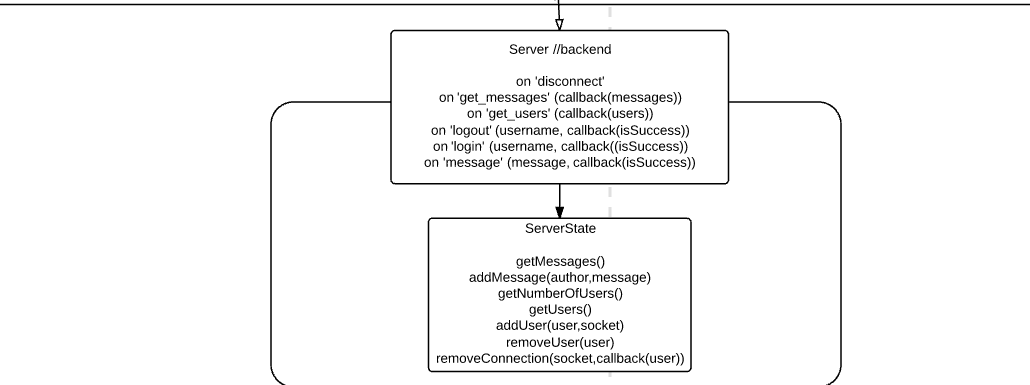
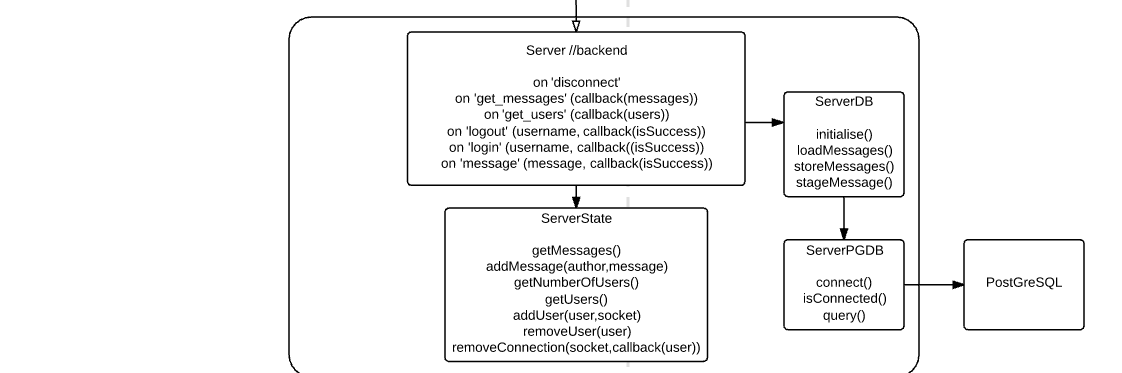
cleaned server.js code, updated chat-server documentation r.e. persistance

diff --git a/serverState.js b/serverState.js
@@ -5,92 +5,87 @@ var messages = [];
 //THIS IS THE SERVER MODEL
 //Note: only model behaviour, e.g. no SOCKET-IO functionality here!
 
-function createMessage(_author,_message)
-{
+function createMessage(_author,_message){
   var _date = new Date();
-  var result =
-  {
+  var result = {
     author: _author,
     message: _message,
     date: _date
   };
-
   return result;
 }
 
-module.exports =
-{
+function getMessages(){
+  console.log('getMessages:');
+  return messages;
+}
 
-  getMessages : function()
-  {
-    console.log('getMessages:');
-    return messages;
-  },
-
-  //loads a message from the database
-  //msg = {author, message, date}
-  loadMessage: function(msg)
-  {
-    if (!msg.author || !msg.message || !msg.date){
-      throw new Error("ServerState: loadMessage: msg incorrect format",msg);
-    }
-    else {
-      messages.push(msg);
-    }
-    return msg;
-  },
-
-  addMessage : function(author,message)
-  {
-    var msg = createMessage(author,message);
-    messages.push(msg);
-    return msg;
-  },
-
-
-  getNumberOfUsers : function()
-  {
-    return users.length;
-  },
-
-  getUsers : function()
-  {
-    return users;
-  },
-
-  //TODO: user can be offline e.g. a historical user
-  addUser : function(user,socket)
-  {
-    //make sure user isn't already here,
-    console.log('ServerState:addUser');
-    var index = users.indexOf(user);
-    var success = index === -1;
-    if (success){
-      users.push(user);
-      sockets.push(socket);
-    }
-    return success;
-  },
-
-  //TODO: make this alter the users status from online to offline
-  removeUser : function(user)
-  {
-    console.log('ServerState:removeUser');
-    var index = users.indexOf(user);
-    if (index > -1){
-      users.splice(index,1);
-      sockets.splice(index,1);
-    }
-    return index !== -1;
-  },
-
-  removeConnection : function(socket,callback)
-  {
-    console.log('ServerState:removeConnection');
-    var index = sockets.indexOf(socket);
-    if (index != -1){
-      var user = users[index];
-      callback(user);
-    }
+//loads a message from the database
+//msg = {author, message, date}
+function loadMessage(msg){
+  if (!msg.author || !msg.message || !msg.date){
+    throw new Error("ServerState: loadMessage: msg incorrect format",msg);
   }
+  else {
+    messages.push(msg);
+  }
+  return msg;
+}
+
+function addMessage(author,message){
+  var msg = createMessage(author,message);
+  messages.push(msg);
+  return msg;
+}
+
+function getNumberOfUsers(){
+  return users.length;
+}
+
+function getUsers(){
+  return users;
+}
+
+//TODO: user can be offline e.g. a historical user
+function addUser(user,socket){
+  //make sure user isn't already here,
+  console.log('ServerState:addUser');
+  var index = users.indexOf(user);
+  var success = (index === -1);
+  if (success){
+    users.push(user);
+    sockets.push(socket);
+  }
+  return success;
+}
+
+//TODO: make this alter the users status from online to offline
+function removeUser(user){
+  console.log('ServerState:removeUser');
+  var index = users.indexOf(user);
+  if (index > -1){
+    users.splice(index,1);
+    sockets.splice(index,1);
+  }
+  return index !== -1;
+}
+
+function removeConnection(socket,callback){
+  console.log('ServerState:removeConnection');
+  var index = sockets.indexOf(socket);
+  if (index != -1){
+    var user = users[index];
+    callback(user);
+  }
+}
+
+module.exports = {
+  getMessages : getMessages,
+  loadMessage : loadMessage,
+  addMessage : addMessage,
+  getNumberOfUsers : getNumberOfUsers,
+  getUsers : getUsers,
+  addUser : addUser,
+  removeUser : removeUser,
+  removeConnection : removeConnection
 };

diff --git a/server.js b/server.js
@@ -9,8 +9,7 @@ var io = require('socket.io')(http);
 var ServerState = require('./serverState.js');
 var ServerDB = require('./serverDB.js');
 
-function CheckCallback(cb, message)
-{
+function CheckCallback(cb, message){
   var result = (cb && typeof cb === "function" );
   if (!result){throw new Error(message, "callback not provided");}
   return result;

diff --git a/chat-server.md b/chat-server.md
@@ -1,9 +1,9 @@
 # Chat Server
 
-[![Build Status](https://travis-ci.org/t-rappos/auction-system.svg?branch=master)](https://travis-ci.org/t-rappos/auction-system)
+[![Build Status](https://travis-ci.org/t-rappos/auction-system.svg?branch=chat-server)](https://travis-ci.org/t-rappos/auction-system)
 
 This application was created to test a proposed technology stack for web applications.
-It was also successfully deployed on [heroku](https://chat-server-t-rappos.herokuapp.com/#/?_k=32gzvg)
+It was also successfully deployed on [Heroku](https://chat-server-t-rappos.herokuapp.com/#/?_k=32gzvg).
 
 ![Home Page](chat-server-images/home.PNG)
 
@@ -19,18 +19,28 @@ It was also successfully deployed on [heroku](https://chat-server-t-rappos.herok
 ### Front-end
 - React
 - Redux
-- Socket.io
+- Socket.io-client
 - Babel
 - Webpack
+- JQuery
+- ESLint
+- Expect
+- Karma
+- Mocha
 
 ### Back-end
 - Node.js
 - Express
+- PostgreSQL
+- Socket.io
 
-### (Continuous) Deployment
-- Github (pushes to chat-server branch and runs)
-  - Travis-CI (if this passes)
-    - Heroku (deployed)
+### Persistance
+- Heroku idles free-tier webapps after 30 minutes if they aren't receiving traffic, this means that the server-state will be reset often and the messages stored on the server will be lost. To avoid this, a PostgreSQL database was used.
+
+### Continuous Integration & Deployment
+  - Has been setup with travis-ci
+  - Runs test suite every push to github
+  - Heroku pulls code whenever a chat-server branch git-push successfully passes travic-CI checks
 
 ### Testing
 - karma
@@ -43,8 +53,7 @@ It was also successfully deployed on [heroku](https://chat-server-t-rappos.herok
   - better syntax and functionality for making test assertions.
 
 
-Tests were created for all of the React components
-Things that were tested in general include:
+Tests were created for all of the React components, things that were tested in general include:
 - Component renders in DOM with minimal amount of input
 - Component throws error if required property is not passed (crashes are better than silent errors as we can see issues imediately)
 - Component renders as expected with input specified
@@ -58,19 +67,16 @@ TODO:
 
 ### Linting
 - ESLint
+- Setup to lint jsx files when webpack runs
+- Linting runs in NPM test and webpack -w
+- Runs during travis-CI deployment, if an error occurs the build will not pass
 
 https://shellmonger.com/2016/01/26/using-eslint-with-webpack/
 https://www.npmjs.com/package/eslint-plugin-react
 
-- setup to lint jsx files when webpack runs
-- TODO: will this work with deployment? or do we need to automate with gulp?
-  - idealy it should break the build if a lint error occurs and thus not deploy
-
-
-### Continuous Integration
-- Has been setup with travis-ci
-- Runs test suite every push to github
-- Heroku pulls code whenever a git-push successfully passes travic-ci checks
+### Styling
+Foundation was used to style the apps CSS, in particular:
+- 
 
 ### Package.json
 
@@ -120,7 +126,7 @@ https://www.npmjs.com/package/eslint-plugin-react
   "webpack": "^1.14.0"
 }
 ```
-TODO: Check if all the non-dev dependancies are needed
+
 ## Design
 
 ### Front-end React Component Tree
@@ -133,3 +139,11 @@ This image displays the react components and the props being sent to children co
 
 ### Front-end Redux diagram
 ![Redux](chat-server-images/redux.PNG)
+
+### Workflow
+- webpack -w | Compiles files into webpack bundle for server, picks up compilation and linting errors, run this command to automatically compile changes to code when developing locally.
+- NPM test | Runs the test suite and shows results.
+- node server.js | Runs the server locally. Go to localhost:3000 to view webpage
+- git add . | Adds changed files.
+- git commit -m "commit message" | Selects for submitting changes remotely to github
+- git push | Pushes commit to current remote branch, travis-CI then runs NPM test, and if the push was in chat-server branch and was successful then heroku will deploy to production.

diff --git a/README.md b/README.md
@@ -1,5 +1,5 @@
 # auction-system
-
+[![Build Status](https://travis-ci.org/t-rappos/auction-system.svg?branch=master)](https://travis-ci.org/t-rappos/auction-system) 
 An auction listing system
 
 # Table of Contents
@@ -33,7 +33,7 @@ See the [TDD](tdd.md) or [Technologies research](technologies%20research.md) for
 
 - Outline the scope and define user requirements (SRS)
 - Research what technologies will be used
-- see [Chat-Server](chat-server.md) [![Build Status](https://travis-ci.org/t-rappos/auction-system.svg?branch=master)](https://travis-ci.org/t-rappos/auction-system) for a throwaway prototype application using the desired technology stack
+- see [Chat-Server](chat-server.md) [![Build Status](https://travis-ci.org/t-rappos/auction-system.svg?branch=chat-server)](https://travis-ci.org/t-rappos/auction-system) for a throwaway prototype application using the desired technology stack
 - or visit the deployment on [heroku](https://chat-server-t-rappos.herokuapp.com/#/?_k=32gzvg)
 - Define system structure by documenting all classes, their roles, responsibilities and collaborators. (TDD)
 - List of classes/Components w/ specs
